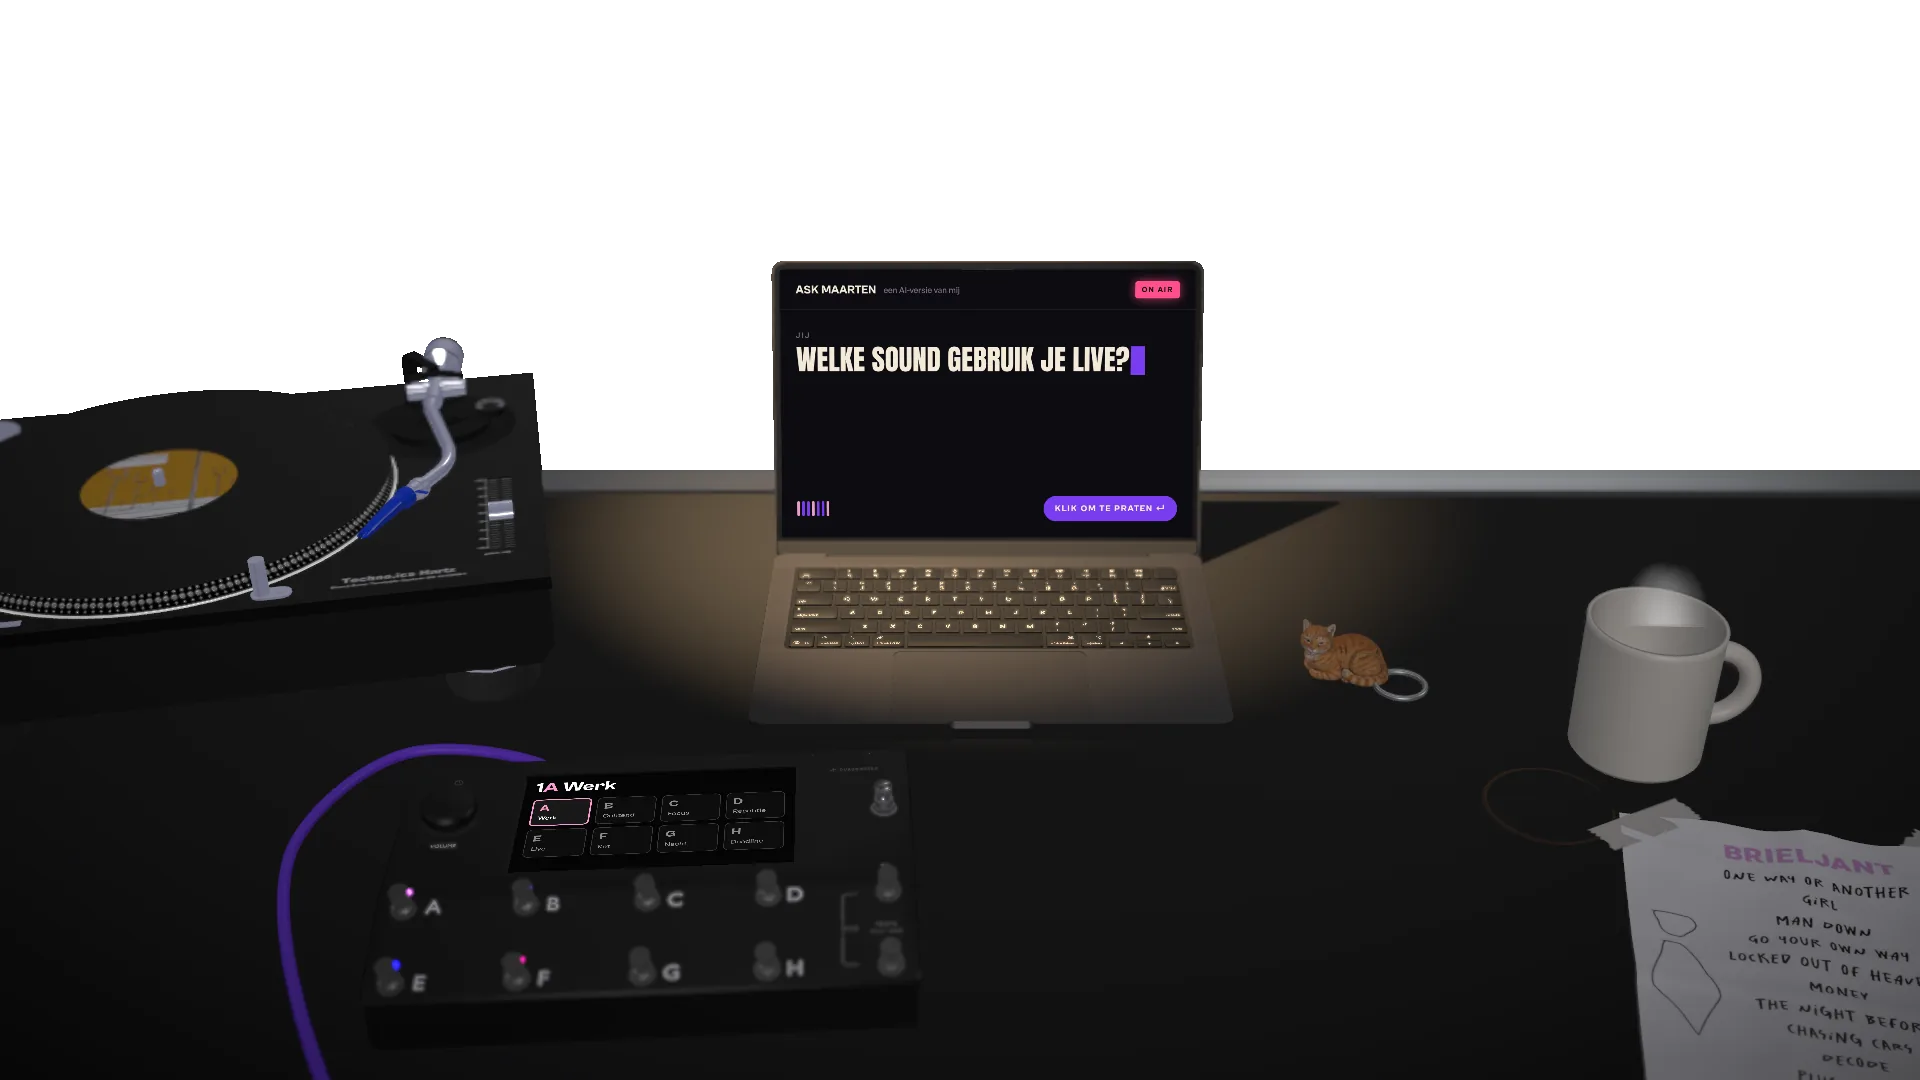
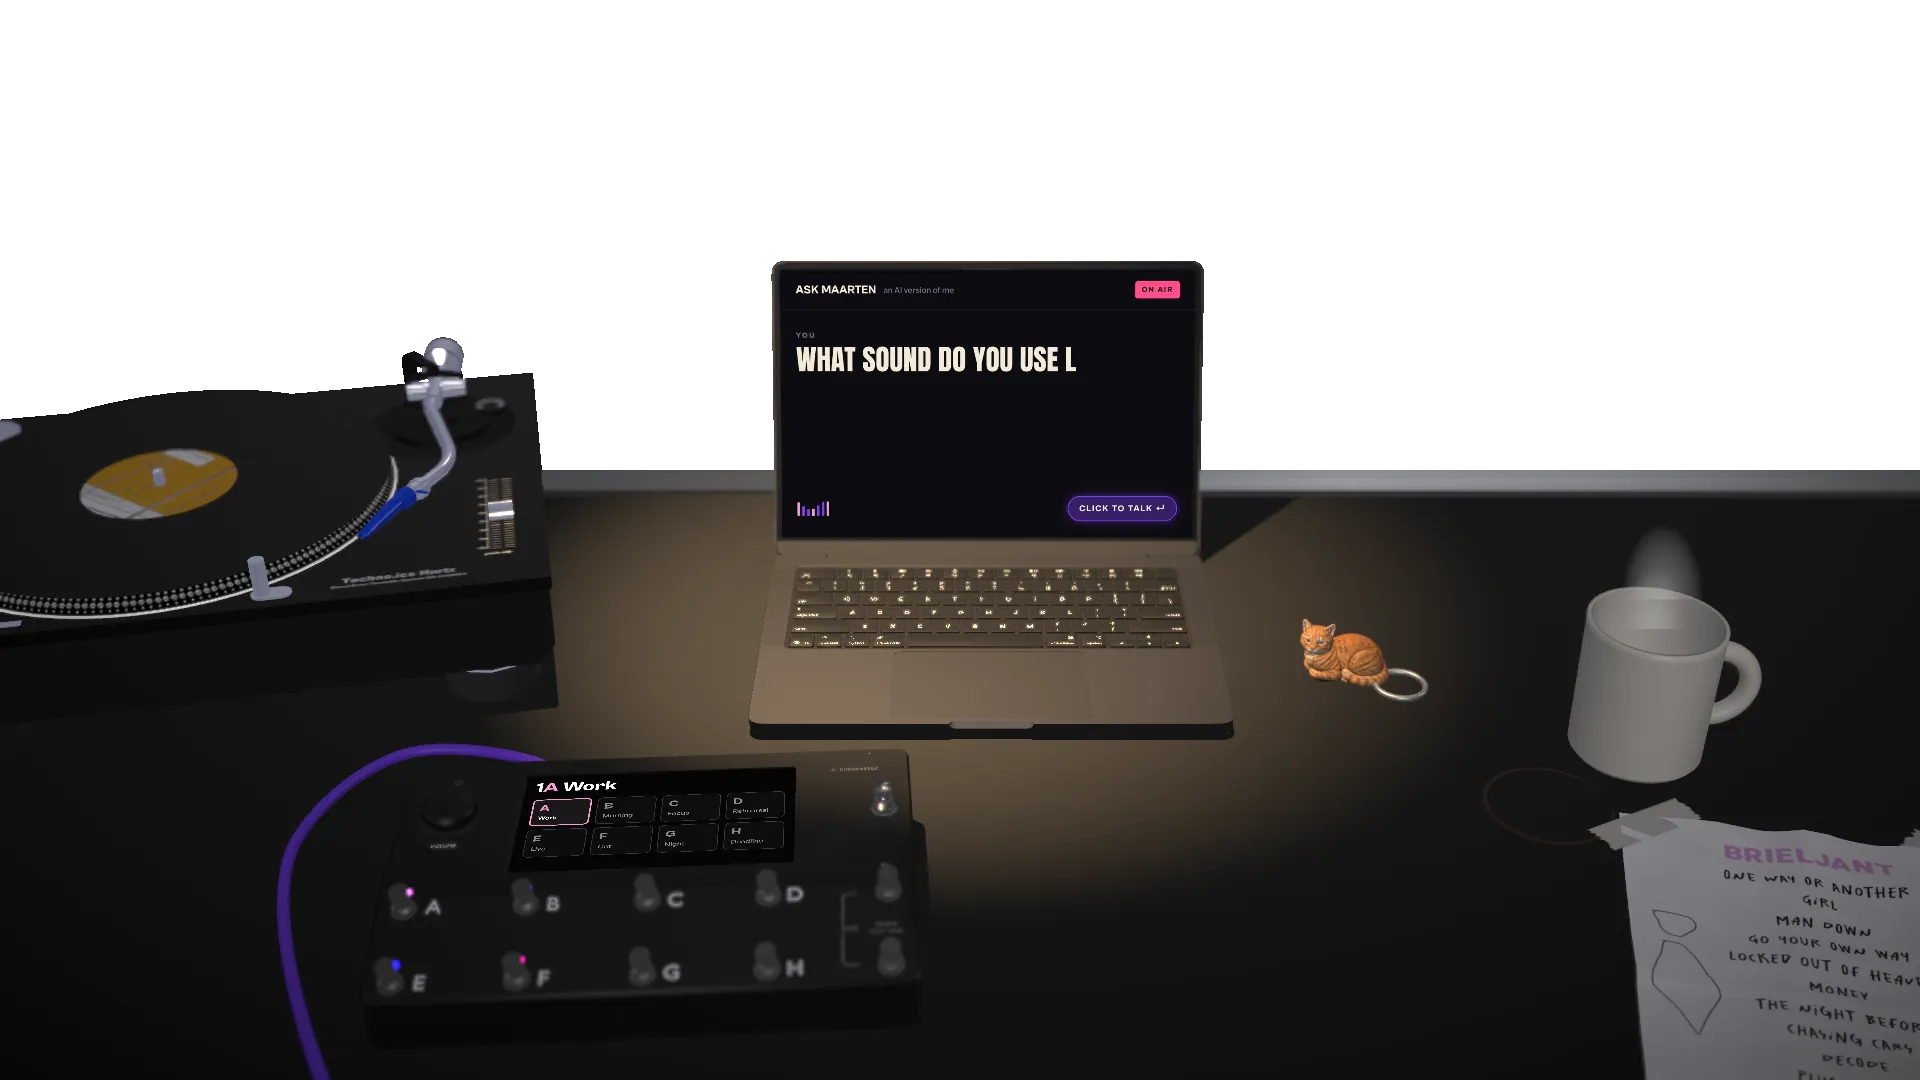
fix: werkbank-hero afwerking
- Navbar volgt de hero via de GSAP-ticker (werkt met ScrollSmoother)
- Scene-label op desktop linksonder, plaat rechtsonder
- Laadtekst in het Engels
- Nieuwe posters met de Engelse schermen

Claude-Session: https://claude.ai/code/session_01HD8hnMgcfUh3PyieXZDauY

diff --git a/app/components/werkbank/Hero.tsx b/app/components/werkbank/Hero.tsx
@@ -153,10 +153,10 @@ export default function Hero() {
         <LoadBar progress={ready ? 1 : progress} visible={loading} portrait={portrait} />
 
         {/* Laag 3: kleine typografie (de Navbar staat bovenaan) */}
-        <div style={styles.scene} aria-hidden>
+        <div style={portrait ? styles.scene : styles.sceneDesktop} aria-hidden>
           <span style={{ color: scene.led }}>{pink ? '♥' : `1${sceneKey}`}</span> {scene.naam.toUpperCase()}
         </div>
-        <NowPlaying style={styles.nowPlaying!} />
+        <NowPlaying style={(portrait ? styles.nowPlaying : styles.nowPlayingDesktop)!} />
         <p style={portrait ? styles.captionPortrait : styles.caption}>
           INTERACTIVE MEDIA DEVELOPER
           <br />
@@ -257,6 +257,9 @@ const styles: Record<string, React.CSSProperties> = {
   belowTitle: { margin: '16px 0 0', color: COLORS.cream, font: '400 clamp(64px, 14vw, 220px)/0.85 var(--font-anton), Impact, sans-serif' },
   nowPlaying: { ...small, top: 'calc(var(--nav-h) + 30px)', right: 'clamp(20px, 3vw, 40px)', color: COLORS.cream, fontSize: 12, letterSpacing: '0.04em', pointerEvents: 'auto', zIndex: 6 },
   chatKey: { zIndex: 6, left: '50%', bottom: 90, transform: 'translateX(-50%)', padding: '10px 16px', borderRadius: 999, border: `1px solid ${COLORS.accent}`, background: '#0a0a0a', color: COLORS.cream, font: '600 13px var(--font-body), sans-serif' },
+  // Op desktop staat de Navbar bovenaan en de naam eronder: scene-label linksonder, de plaat rechtsonder
+  sceneDesktop: { ...small, bottom: 'calc(clamp(24px, 3vw, 36px) + 44px)', left: 'clamp(20px, 3vw, 40px)', color: COLORS.cream, font: '800 15px var(--font-display), sans-serif', letterSpacing: '0.08em' },
+  nowPlayingDesktop: { ...small, bottom: 'clamp(24px, 3vw, 36px)', right: 'clamp(20px, 3vw, 40px)', color: COLORS.cream, fontSize: 12, letterSpacing: '0.04em', pointerEvents: 'auto', zIndex: 6 },
   giant: { ...giantBase, top: '11vh', font: '400 min(25.5vw, 50vh)/0.82 var(--font-anton), Impact, sans-serif', letterSpacing: '-0.005em' },
   giantPortrait: { ...giantBase, top: '20.5vh', font: '400 26vw/0.82 var(--font-anton), Impact, sans-serif' },
   stage: { position: 'absolute', inset: 0, zIndex: 1 },

diff --git a/app/components/Navbar.tsx b/app/components/Navbar.tsx
@@ -17,15 +17,14 @@ const Navbar = () => {
 
   useEffect(() => {
     if (pathname !== "/") return;
-    const update = () => setOnHero(window.scrollY < window.innerHeight * 0.85);
-    const first = requestAnimationFrame(update);
-    window.addEventListener("scroll", update, { passive: true });
-    window.addEventListener("resize", update);
-    return () => {
-      cancelAnimationFrame(first);
-      window.removeEventListener("scroll", update);
-      window.removeEventListener("resize", update);
-    };
+    // Zolang de hero onder de Navbar ligt, blijft de Navbar transparant
+    const hero = document.getElementById("hero");
+    if (!hero) return;
+    // Elke frame meten via de GSAP-ticker: volgt zo ook de vertraagde ScrollSmoother-beweging.
+    // React rendert enkel opnieuw als de waarde echt verandert.
+    const check = () => setOnHero(hero.getBoundingClientRect().bottom > 48);
+    gsap.ticker.add(check);
+    return () => gsap.ticker.remove(check);
   }, [pathname]);
 
   useEffect(() => {

diff --git a/app/components/werkbank/hero/LoadBar.tsx b/app/components/werkbank/hero/LoadBar.tsx
@@ -36,7 +36,7 @@ export function LoadBar({ progress, visible, portrait }: { progress: number; vis
         />
       </div>
       <div style={{ marginTop: 10, textAlign: 'center', font: '500 12px var(--font-body), sans-serif', letterSpacing: '0.08em', color: '#8b8496' }}>
-        WERKBANK OPZETTEN · {pct}%
+        SETTING UP THE WORKBENCH · {pct}%
       </div>
     </div>
   );

diff --git a/app/page.tsx b/app/page.tsx
@@ -8,7 +8,7 @@ export default function Home(): JSX.Element {
   return (
     <>
       {/* De werkbank-hero schuift onder de vaste Navbar door */}
-      <div className="-mt-20 md:-mt-24">
+      <div id="hero" className="-mt-20 md:-mt-24">
         <Hero />
       </div>
       <div id="projects">
